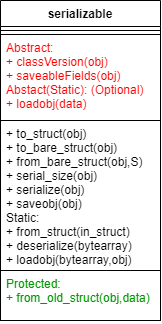
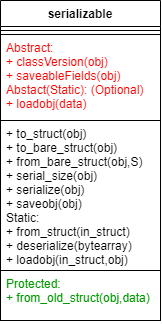
Re #803 completed ADD for serializable interface.

Changed region(s): [[0.3704, 0.7716, 0.8025, 0.8333]]

diff --git a/documentation/add/09_Serializable_Interfaces.md b/documentation/add/09_Serializable_Interfaces.md
@@ -1,7 +1,7 @@
 # Serialiable interfaces
 Date: 2022-06-01
 
-## Objectives and problems to resolve.
+## Objectives and problems to solve.
 Current Horace SQW objects use its native proprietary (though an open source) binary file format to store Horace `sqw` objects and allow fast access to these objects. The problem is in accessing pixel information in fact the data, containing all data records from a weeks long inelastic scattering neutrons experiments. The main reason for introducing such format is that these data can not fit to memory of common computers (average size of the files would be *~50Gb* but *500Gb* files are not so uncommon), so we need to keep these data on a disk and provide efficient ways of accessing and processing them.
 
 In addition to that, users often work with parts of the whole experiment data, containing the areas of the interests for the user. These data can often, though not always, fit into memory and users want to store their areas of interest for further usage. The data in memory are presented as Matlab `sqw` objects so users often use Matlab proprietary file format, which allows efficient binary store/restore operations for a Matlab classes.
@@ -17,31 +17,113 @@ The fact that the data are binary and proprietary causes some problems for users
 3. Additional problem to resolve is the maintenance of two independent file formats. Any changes to `sqw` objects would request changes in two independent file writers which requests additional developers efforts. It would be beneficial to avoid efforts duplication and maintain only one file format both for large (partially fitting to memory) and small (fully fitting to memory) `sqw` objects, written to disk.
 
 ## Suggested solution -- serializable interface.
-To resolve issues 1-3 mentioned in the previous chapter, team decided to rely on the Matlab's standard mechanism of storing/restoring customized objects. If a Matlab object defines `saveobj/loadobj` methods, Matlab uses these methods to convert to/from binary format to convert a Matlab object into a structure or recover the object from the structure. The structure then is saved/loaded using Matlab proprietary file format. The responsibility of maintaining this format is then lies with Matlab. 
+To resolve issues 1-3 mentioned in the previous chapter, team decided to rely on the Matlab's standard mechanism of storing/restoring customized objects. If a Matlab object defines `saveobj/loadobj` methods, Matlab uses these methods to convert to/from binary format to convert a Matlab object into a structure or recover the object from the structure. The structure then is saved/loaded using Matlab proprietary file format. The responsibility of maintaining this format is then lies with Matlab.
 
-To utilize the `saveobj/loadobj` Matlab behaviour we have decided to make all Horace objects `serializable`. The custom `serializable` class defines `saveobj/loadobj` pair of methods and some additional methods, necessary to maintain class versioning (see below). 
+To utilize the `saveobj/loadobj` Matlab behaviour we have decided to make all Horace objects `serializable`. The custom `serializable` class defines `saveobj/loadobj` pair of methods and some additional methods, necessary to maintain class versioning (see below).
 To implement our *serializable* interface we have to make two assumptions about our objects:
-1. The objects have an empty constructor. 
-2. An object has a public interface which allows to define non-empty object with any contents the object may have.
 
-If such assumpitins are satisfied, we may define *serializable* objects, which need to define only handful of class-specific methods, but would immediately number of very useful generic features. The class diagram describing such object is presented on the **Fig 1**:
+1. The object has an empty constructor.
+2. The object has a public interface which allows to define(assign) to an empty object any contents the non-empty object may have,defining in this way any valid non-empty object.
+
+If such assumptions are satisfied, we may define *serializable* objects, which need to define only handful of class-specific methods, but would immediately have number of very useful generic features. The class diagram describing such object is presented on the **Fig 1**:
 
 <center>![Serialiable. Main Interface](../diagrams/serializable_main_interface.png)</center>
 
-**Fig 1:** Main interface and methods of **Serializable** class.
+**Fig 1:** Main interface and methods of **serializable** class.
 
+The parent class, presented on the fig, allows easy construction and maintenance of standardized serializable objects by defining the following abstract methods:
 
+**Table 1:**
 
+| Method | Description |
+|-----|---------|
+|  classVersion | returns the number, which describes current class version. E.g. 1 - for version 1|
+| saveableFields | returns list of property names, defining class' public interface |
 
+As soon as these properties are defined, one can use other class methods to serialize/deserialize objects and convert them into structure. The main features of the available methods are summarized in the Tables 2:
+** Table 2:**
 
+| Method | Description |
+|-----|---------|
+|  `struct = to_bare_struct(obj)` | returns structure, with the field names equal to the names returned by `saveableFields` method and values, defined by the values of these fields. If the values are the serializable objects themselves, they converted into correspondent structures recursively|
+| `obj = from_bare_struct(obj,data)` | sets the values of the public properties of the serializable interface from the structure, obtained from *to_bare_struct* method |
+| `data = to_struct(obj)` | converts `obj` or array of `obj` into the `data` structure using `to_bare_struct` method and adds additional information about the class name and the size and shape of the `obj` array if relevant. |
+| *Static:* | |
+| `obj = from_struct(data)` | reverse of `to_struct` method, recovering the object or array of objects from the `data`, generated by the `to_struct` method |
 
+Standard loadobj/saveobj and serialize/deserialize methods use the data obtained from the methods described in **Table-2** or the methods themselves to provide/use input for/from Matlab save/load methods or serialize/deserialize methods to save/load data to/from `.mat` files or transform the objects from/to linear arrays of bytes for communications over linear pipes. The serialize/deserialize routines use Herbert-defined serialize/deserialize methods over the structures obtained using to_struct/from_struct methods. 
 
+Two remaining methods provided on the **Fig 1** namely static `loadobj` and `from_old_struct` methods need overloading if/when you need to support loading of the versions of a class, which are different from the the current class version. By default, a standard `loadobj` method exists and this method expects to receive the structure, produced by `to_struct` method. `to_struct` method adds information about the class name, so generic `loadobj` extracts this information and recovers the class. If this information is missing, which may happen when you loading a class structure, generated before the object become `serializable`, you need to overload `loadobj` to provide the empty instance of the class, as described by the code snippet below:
+```Matlab
+        methods(Static)
+            function obj = loadobj(S)
+                % boilerplate loadobj method, calling generic method of
+                % saveable class. Put it as it is replacing the
+                "ChildClass" name by the name of the class the loadobj is
+                the method of.
+                obj = ChildClass();
+                obj = loadobj@serializable(S,obj);
+            end
+        end
+```
+By default, the method `from_old_struct` calls `from_bare_struct` method, so it does not need overloading if the structure of your class public interface have not changed. 
+If it have changed, it need overloading with the code, converting the old information, stored in the previous class structure into the information, necessary to define new class.
 
+## Interdependent properties problem.
 
+All serializable interface described above and used inside the code is build under assumption that you define class value by assigning the values of the properties one by one. 
+All public setters run checks of the validity of the values one wants to assign to the properties and throw exceptions if the input values are invalid. This assumption causes one problem with interdependent properties. For example, arrays `s`,`e`, and `npix` of a `dnd` or `sqw` object need to be the same shape and size arrays. If you are modifying, say, empty `dnd` object assigning `s`, `e` and `npix` one after another, the first assignment would be always invalid, as the sizes of two other arrays are different from the first one while initial object was containing empty data. 
 
+There is number of ways, one can deal with this issue. After discussion, we have decided to select the following approach, summarized on the **Fig 2** describing the interface  used to validate interdependent properties. 
 
+<center>![serializable Validation Interface](../diagrams/Serializable_validation_interface.png)</center>
 
+**Fig 2:** Validation interface for **serializable** class.
 
-
-
+ Any interdependent properties for a child of the *serializable* class, which has interdependent properties, have to overload `[ok,mess,obj] = check_combo_arg(obj)` method. This method verifies validity of interdependent properties. Each setter for interdependent properties runs this method within the code snippet:
+ ```Matlab
+    function obj = set.an_interdependent_prop(obj,val)
+        check_general_acceptance_of_input_throw_if_invalid(val);
+        if obj.check_combo_arg_
+            [ok,mess,obj] = check_combo_arg(obj,val)
+            if ~ok
+                error('HORACE:interdependent_properties_validation_error',message)
+            end
+        end
+    end
+ ```
  
+Before the properties are set within the serializable class one by one, the *serializable* code sets the protected property **check_combo_arg_** to false, so the check is not occurring. The code then sets the property **check_combo_arg_** to true and runs check method: *check_combo_arg* after all interdependent properties have been set, throwing if *check_combo_arg* returns false. As the result, user can snot change interdependent properties in a wrong way and needs to use constructor or serializable interface to set defined class with interdependent properties. 
+
+There is other way of setting interdependent properties assuring their validity, namely defining the methods, which allow setting all interdependent properties at once. E.g. setting `s`, `e`, `npix` array may be performed by introducing property `se_npix` with validates and sets all three properties together. This method may be more efficient from point of view of serializing data so will be used where it is justified and convenient.
+
+## Standard serializable class constructor form.
+
+As a *serializable* class has public interface, fully described by the list of properties, returned by *saveableFields* method, it makes sense to define standard constructor, which use this interface to define the contents of the serializable class. The constructor would have the form:
+```Matlab
+    obj = class_name(positional_val1,positional_val2,positional_val3,... '-key1',val1,'-key2',val2,...);
+```
+where positional_val1, positional_val2... are the values, one would set up to the public properties of the *serializable* interface in the order, these properties names are returned by *saveableFields* method. The `keys` then would be the names of these properties, following by the requesting values. 
+
+To facilitate creation of such constructors, the *serializable* class has a method:
+
+```Matlab
+ [obj,remains] = set_positional_and_key_val_arguments(obj,...
+                param_names_list,varargin);
+```
+
+where `param_names_list` is the list of the property names. Then, a standard constructor for a serializable object would have a form:
+
+```Matlab
+    function obj = an_serializable_obj(varargin)
+        prop_names = obj.saveableFields();
+        obj = set_positional_and_key_val_arguments(obj,...
+                param_names_list,varargin{:});
+    end
+```
+
+## Generic eq operator.
+
+As serializable classes have public interfaces with values fully defining the state of the object, to compare serializable objects is reasonable to define `eq` operator, which would work by comparing the values, retrieved from public properties provided by *saveableFields* method of the serializable interface.
+
+To avoid code duplication, such operator should be defined directly on *serializable* interface.
